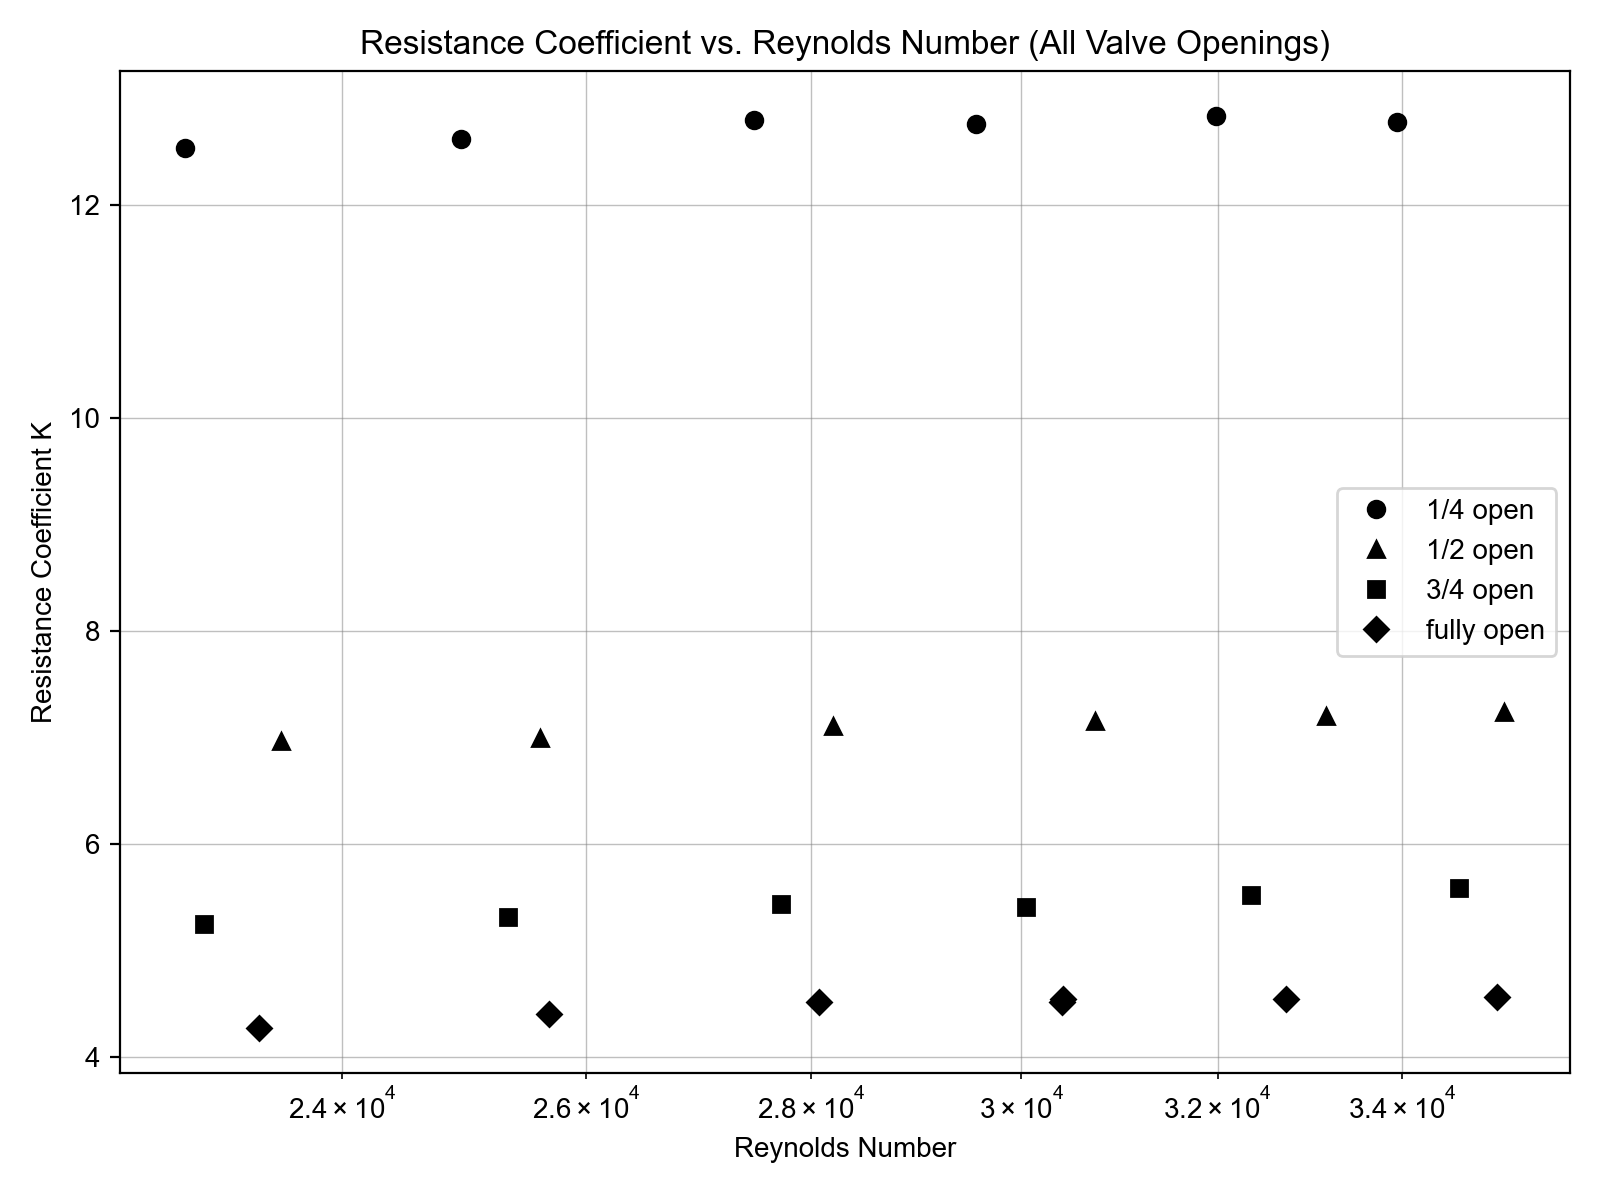
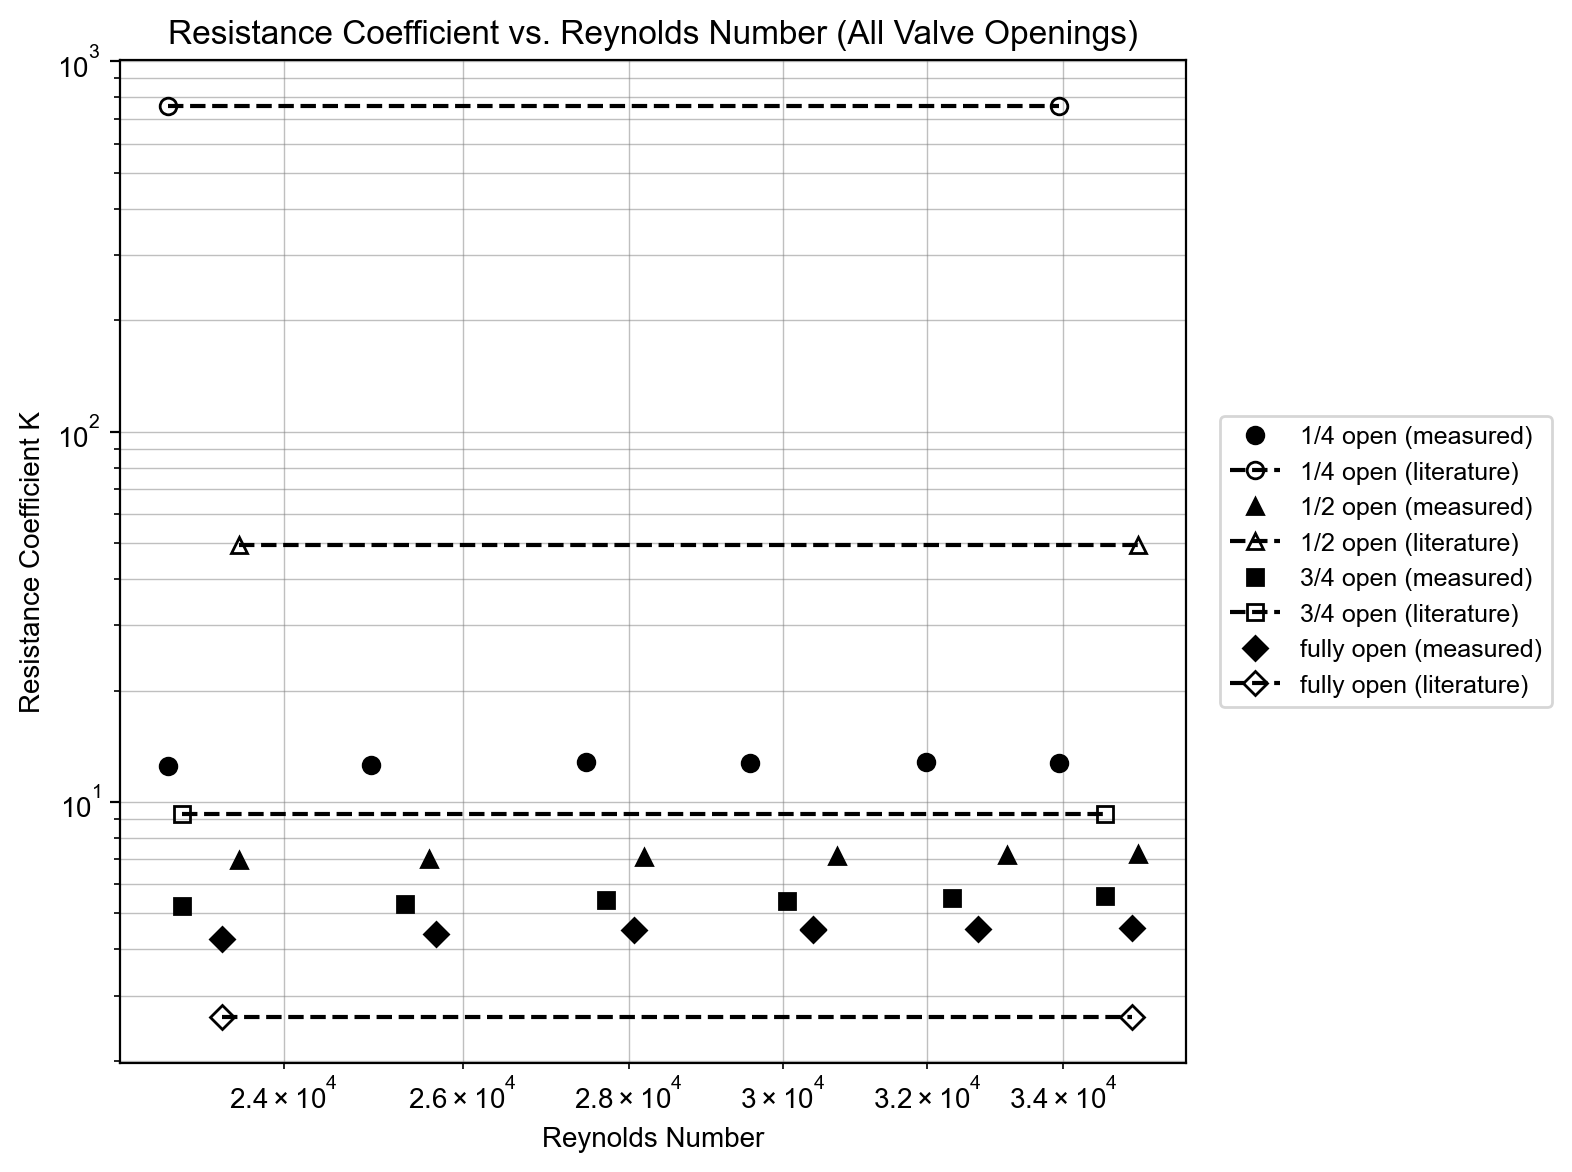
added lit values of k and leq

diff --git a/create_plots.py b/create_plots.py
@@ -165,6 +165,33 @@ def valve_resistance_rows(groups, rho):
 
 ALL_VALVE_OPENINGS = ["1/4 open", "1/2 open", "3/4 open", "fully open"]  # openings shown in Figures 11-12
 ALL_VALVE_OPENING_MARKERS = {opening: m for opening, m in zip(ALL_VALVE_OPENINGS, MARKERS)}
+# restricted (trim) diameter as a fraction of the connecting pipe diameter, per opening
+OPENING_FRACTIONS = {"1/4 open": 0.25, "1/2 open": 0.5, "3/4 open": 0.75, "fully open": 1.0}
+
+def crane_fully_turbulent_friction_factor(roughness_in, diameter_in):
+    """Crane TP-410 fully-turbulent (Darcy) friction factor from relative roughness."""
+    eps_over_d = roughness_in / diameter_in
+    return 0.25 / (math.log10(eps_over_d / 3.7))**2
+
+def crane_valve_k(k_fully_open, beta):
+    """Crane TP-410 resistance coefficient for a valve whose trim diameter is
+    smaller than the connecting pipe, given beta = sqrt(restricted area / pipe
+    area). Reduces to k_fully_open when beta = 1."""
+    return (k_fully_open + beta * (0.5 * (1 - beta**2) + (1 - beta**2)**2)) / beta**4
+
+def literature_valve_k(roughness_in, diameter_in):
+    """Crane TP-410 literature K per valve opening: K = 340 * f_t for the fully
+    open valve, with reduced openings modeled as a valve-in-reducer (restricted
+    diameter = opening fraction * the connecting pipe diameter)."""
+    f_t = crane_fully_turbulent_friction_factor(roughness_in, diameter_in)
+    k_fully_open = 340 * f_t
+    k_by_opening = {}
+    for opening, frac in OPENING_FRACTIONS.items():
+        restricted_area = math.pi / 4 * (frac * diameter_in)**2
+        pipe_area = math.pi / 4 * diameter_in**2
+        beta = math.sqrt(restricted_area / pipe_area)
+        k_by_opening[opening] = crane_valve_k(k_fully_open, beta)
+    return f_t, k_by_opening
 
 def valve_resistance_rows_by_opening(groups, rho):
     """Return valve opening label, Reynolds number, and resistance coefficient K per
@@ -369,8 +396,10 @@ def create_valve_flow_pressure_plot(rows, title, filename):
     plt.close(fig)
     print(f"Saved plot to {filename}")
 
-def create_valve_resistance_by_opening_plot(rows, title, filename):
-    """Plot resistance coefficient K vs. Reynolds number, grouped by valve opening."""
+def create_valve_resistance_by_opening_plot(rows, literature, title, filename):
+    """Plot resistance coefficient K vs. Reynolds number, grouped by valve opening,
+    with each opening's Crane TP-410 literature K as a horizontal dashed line
+    (hollow marker) spanning that opening's measured Re range."""
     fig, ax = plt.subplots(figsize=(8, 6))
 
     for opening in ALL_VALVE_OPENINGS:
@@ -379,23 +408,28 @@ def create_valve_resistance_by_opening_plot(rows, title, filename):
             continue
         re = [r[1] for r in subset]
         k = [r[2] for r in subset]
-        ax.plot(re, k, ALL_VALVE_OPENING_MARKERS[opening], label=opening,
+        ax.plot(re, k, ALL_VALVE_OPENING_MARKERS[opening], label=f'{opening} (measured)',
                 color="black", markerfacecolor="black")
+        ax.plot([min(re), max(re)], [literature[opening]] * 2, '--',
+                marker=ALL_VALVE_OPENING_MARKERS[opening], color="black", markerfacecolor="none",
+                label=f'{opening} (literature)')
 
     ax.set_xscale("log")
+    ax.set_yscale("log")
     ax.set_xlabel("Reynolds Number")
     ax.set_ylabel("Resistance Coefficient K")
     ax.set_title(title)
-    ax.legend()
+    ax.legend(loc="center left", bbox_to_anchor=(1.02, 0.5), fontsize=9)
     ax.grid(True, which="both", color="gray", linewidth=0.5, alpha=0.5)
     fig.tight_layout()
-    fig.savefig(filename, dpi=200)
+    fig.savefig(filename, dpi=200, bbox_inches="tight")
     plt.close(fig)
     print(f"Saved plot to {filename}")
 
-def create_equivalent_length_plot(rows, title, filename):
+def create_equivalent_length_plot(rows, literature, title, filename):
     """Plot equivalent length (in pipe diameters) vs. Reynolds number, grouped by
-    valve opening."""
+    valve opening, with each opening's Crane TP-410 literature Leq/D as a
+    horizontal dashed line (hollow marker) spanning that opening's measured Re range."""
     fig, ax = plt.subplots(figsize=(8, 6))
 
     for opening in ALL_VALVE_OPENINGS:
@@ -404,17 +438,21 @@ def create_equivalent_length_plot(rows, title, filename):
             continue
         re = [r[1] for r in subset]
         leq = [r[2] for r in subset]
-        ax.plot(re, leq, ALL_VALVE_OPENING_MARKERS[opening], label=opening,
+        ax.plot(re, leq, ALL_VALVE_OPENING_MARKERS[opening], label=f'{opening} (measured)',
                 color="black", markerfacecolor="black")
+        ax.plot([min(re), max(re)], [literature[opening]] * 2, '--',
+                marker=ALL_VALVE_OPENING_MARKERS[opening], color="black", markerfacecolor="none",
+                label=f'{opening} (literature)')
 
     ax.set_xscale("log")
+    ax.set_yscale("log")
     ax.set_xlabel("Reynolds Number")
     ax.set_ylabel("Equivalent Length, Leq/D")
     ax.set_title(title)
-    ax.legend()
+    ax.legend(loc="center left", bbox_to_anchor=(1.02, 0.5), fontsize=9)
     ax.grid(True, which="both", color="gray", linewidth=0.5, alpha=0.5)
     fig.tight_layout()
-    fig.savefig(filename, dpi=200)
+    fig.savefig(filename, dpi=200, bbox_inches="tight")
     plt.close(fig)
     print(f"Saved plot to {filename}")
 
@@ -746,8 +784,19 @@ if __name__ == "__main__":
     for opening, re, k in valve_k_rows:
         print(f'{opening} valve: Re={re:.0f}, K={k:.2f}')
 
+    # Crane TP-410 literature comparison: K for the fully open valve is 340 * f_t,
+    # the fully-turbulent (Darcy) friction factor of the connecting pipe (using
+    # copper's roughness, per the assignment); other openings follow Crane's
+    # valve-in-reducer beta correction, assuming the restricted (trim) diameter is
+    # the stated fraction of the connecting pipe diameter
+    copper_roughness_in = PIPE_SPECS[("copper", 0.31)]["roughness_in"]
+    f_t, literature_k = literature_valve_k(copper_roughness_in, VALVE_DIAMETER_IN)
+    literature_leq = {opening: k / f_t for opening, k in literature_k.items()}
+    for opening in ALL_VALVE_OPENINGS:
+        print(f'{opening} valve (Crane literature): K={literature_k[opening]:.2f}, Leq/D={literature_leq[opening]:.1f}')
+
     create_valve_resistance_by_opening_plot(
-        valve_k_rows, "Resistance Coefficient vs. Reynolds Number (All Valve Openings)",
+        valve_k_rows, literature_k, "Resistance Coefficient vs. Reynolds Number (All Valve Openings)",
         "Figure_11.png")
 
     # deltaP/rho = 4f * Leq * (v^2/2) = K * (v^2/2), so Leq (in pipe diameters) = K / (4f);
@@ -759,5 +808,5 @@ if __name__ == "__main__":
         print(f'{opening} valve: Re={re:.0f}, Leq/D={leq:.1f}')
 
     create_equivalent_length_plot(
-        valve_leq_rows, "Equivalent Length vs. Reynolds Number (All Valve Openings)",
+        valve_leq_rows, literature_leq, "Equivalent Length vs. Reynolds Number (All Valve Openings)",
         "Figure_12.png")
